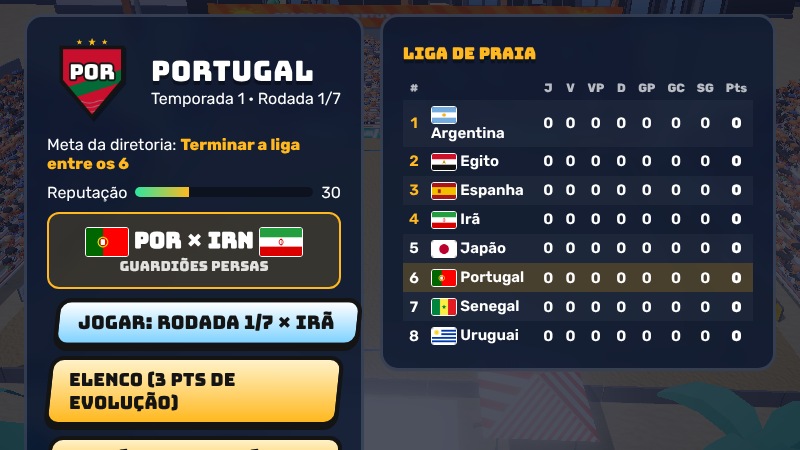
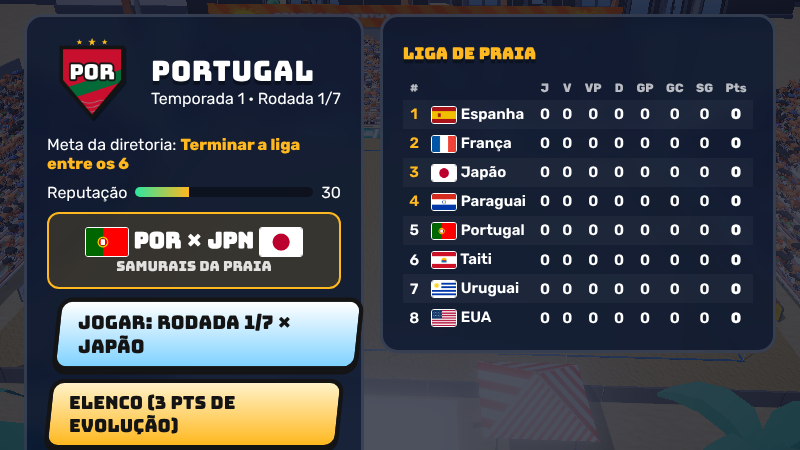
Correções: transições de tela sempre liberam a trava; cliques ignorados durante a transição; QA da carreira
Claude-Session: https://claude.ai/code/session_01SZRMGLNJbngvwk127EqV8r

Changed region(s): [[0.0312, 0.2178, 0.9688, 1.0], [0.1562, 0.4978, 0.375, 0.6222], [0.6562, 0.1867, 0.9375, 0.2178]]

diff --git a/src/ui/Flow.ts b/src/ui/Flow.ts
@@ -74,14 +74,26 @@ export class Flow {
     // transições em sequência: se outra estiver em andamento, espera em vez de descartar
     while (this.busy) await new Promise((r) => setTimeout(r, 40));
     this.busy = true;
-    this.fadeEl.className = 'on';
-    await new Promise((r) => setTimeout(r, 470));
-    await fn();
-    this.fadeEl.className = 'out';
-    await new Promise((r) => setTimeout(r, 470));
-    this.fadeEl.className = '';
-    this.busy = false;
+    this.ui.classList.add('locked'); // cliques (inclusive duplo clique) ignorados durante a transição
+    this.fadeLog.push(`${Math.round(performance.now())} início`);
+    try {
+      this.fadeEl.className = 'on';
+      await new Promise((r) => setTimeout(r, 470));
+      await fn();
+      this.fadeEl.className = 'out';
+      await new Promise((r) => setTimeout(r, 470));
+    } catch (e) {
+      console.error('Erro na troca de tela:', e);
+    } finally {
+      // a trava sempre é liberada: um erro numa tela não pode congelar a navegação
+      this.fadeEl.className = '';
+      this.busy = false;
+      this.ui.classList.remove('locked');
+      this.fadeLog.push(`${Math.round(performance.now())} fim`);
+      if (this.fadeLog.length > 40) this.fadeLog.splice(0, this.fadeLog.length - 40);
+    }
   }
+  fadeLog: string[] = [];
   private clearShow() {
     for (const a of this.show) a.dispose();
     this.show = [];

diff --git a/src/style.css b/src/style.css
@@ -286,3 +286,5 @@ body { font-family: var(--body); color: var(--white); user-select: none; -webkit
 .squad td.at { cursor: pointer; } .squad td.at span { color: var(--green); font-size: 12px; } .squad td.at sup { color: var(--gold); }
 .squad td.cur { outline: 3px solid var(--gold); border-radius: 6px; }
 @media (max-width: 720px) { .careerhub { grid-template-columns: 1fr; } }
+
+#ui.locked .screen { pointer-events: none !important; }

diff --git a/docs/QA.md b/docs/QA.md
@@ -1,13 +1,14 @@
 # QA ponta a ponta
 
-Executado em 2026-11-25 21:00 UTC com `node scripts/qa/run.cjs` (Chromium headless, build de produção).
+Executado em 2026-11-25 21:13 UTC com `node scripts/qa/run.cjs` (Chromium headless, build de produção).
 
-**0/1 suítes OK.** O monitor de invariantes roda a cada quadro em todas as suítes (bola/jogadores com posição válida e dentro do mundo,
+**1/2 suítes OK.** O monitor de invariantes roda a cada quadro em todas as suítes (bola/jogadores com posição válida e dentro do mundo,
 bola perto do dono, controle duplicado, time humano sem jogador, estados presos, bola morta sem ninguém ir buscar).
 
 | Suíte | Resultado | Tempo |
 |---|---|---|
-| career | ✘ FALHOU | 213s |
+| career | ✔ OK | 142s |
+| menus | ✘ FALHOU | 53s |
 
 ## career
 
@@ -19,6 +20,11 @@ bola perto do dono, controle duplicado, time humano sem jogador, estados presos,
 - ✔ evolução gasta 1 ponto e melhora o atributo ({"POR0":{"chute":1}})
 - ✔ temporada concluída e registrada no histórico (1º)
 - ✔ segunda temporada começa
-- ✘ exceção: page.waitForFunction: Timeout 90000ms exceeded.
+- ✔ histórico lista a temporada
+
+## menus
+
+- ✔ ENTER no título abre o menu
+- ✘ exceção: elementHandle.dblclick: Timeout 30000ms exceeded.
 
 Capturas de tela das suítes em `docs/qa/`.
